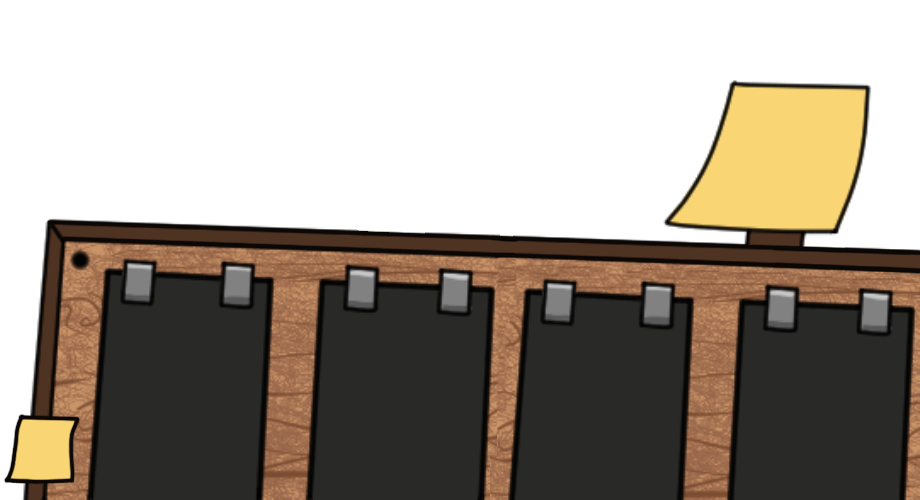
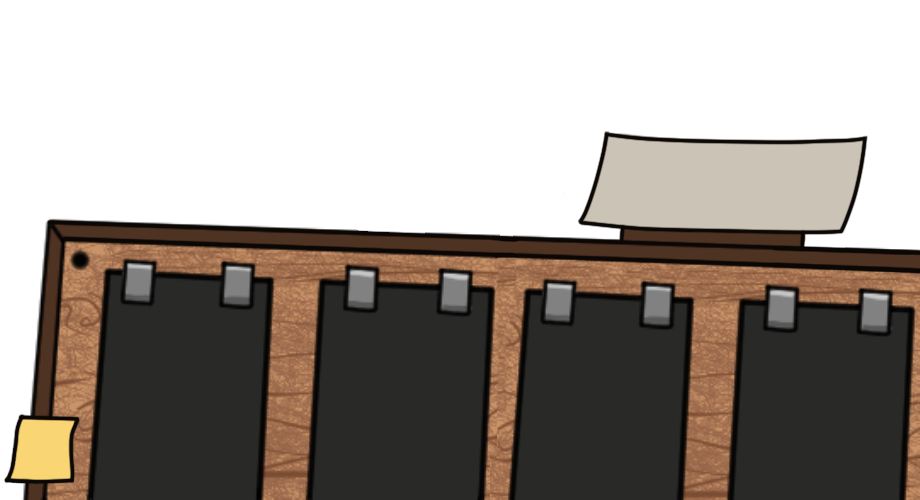
Fix scoreboard readability

Changed region(s): [[0.6087, 0.15, 0.9435, 0.51]]

diff --git a/app/pages/modcorp/campneko/index.vue b/app/pages/modcorp/campneko/index.vue
@@ -211,7 +211,9 @@ async function updateTeamData() {
     <transition name="scoreboard">
       <div ref="Scoreboard" v-if="getCurrentTeam()" class="fixed bottom-0 right-0 w-96 h-52">
         <nuxt-img src="/images/modcorp/campneko/ScoreboardBackground2.png" class="absolute bottom-0 right-0"/>
-        <img :src="getCurrentTeam()!.logo_url" class="absolute top-10 right-8 size-12 skew-y-6 -skew-x-12 opacity-80"/>
+        <div class="absolute top-16 -mt-1 right-6 w-28 h-8 -skew-x-12 opacity-80 text-center text-2xl content-center" :style="'color: '+getCurrentTeam()!.colour">
+          {{getCurrentTeam()!.name}}
+        </div>
         <img :src="getCurrentTeam()!.icon_url" class="absolute bottom-3 left-2 size-5 skew-y-6 -skew-x-12 opacity-80"/>
         <div class="font-playpen text-7xl text-white -skew-x-6 absolute bottom-3 right-72 -mr-1">{{getCurrentScore()[0]}}</div>
         <div class="font-playpen text-7xl text-white -skew-x-6 absolute bottom-2 right-48">{{getCurrentScore()[1]}}</div>
